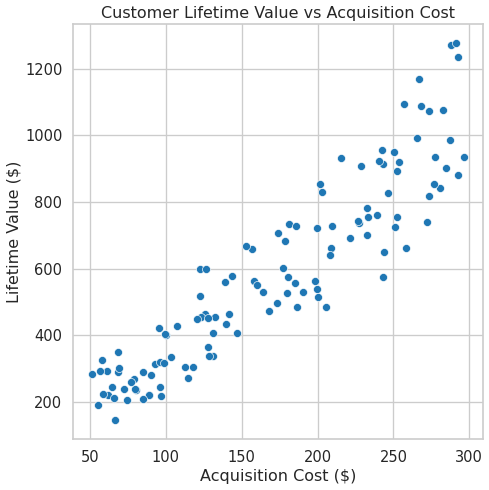
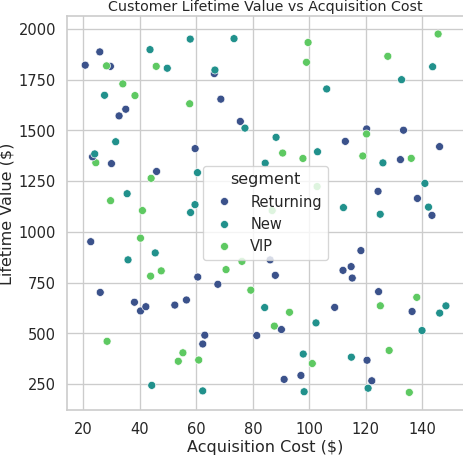
Add CLV scatterplot analysis files

diff --git a/chart.py b/chart.py
@@ -1,40 +1,40 @@
-# Author: 23f1001452@ds.study.iitm.ac.in
 import seaborn as sns
 import matplotlib.pyplot as plt
 import pandas as pd
 import numpy as np
 
-# --- Generate synthetic business data ---
-np.random.seed(42)
-
-n = 120
-acquisition_cost = np.random.uniform(50, 300, n)
-lifetime_value = acquisition_cost * np.random.uniform(2.5, 4.5, n) + np.random.normal(0, 50, n)
-
-df = pd.DataFrame({
-    "AcquisitionCost": acquisition_cost,
-    "LifetimeValue": lifetime_value
-})
-
-# --- Seaborn styling ---
+# Set professional style
 sns.set_style("whitegrid")
 sns.set_context("talk")
 
-# --- Create the 512x512 figure ---
-plt.figure(figsize=(8, 8))  # 8 inches * 64 dpi = 512px
+# Generate synthetic data
+np.random.seed(42)
+n = 120
+df = pd.DataFrame({
+    "acquisition_cost": np.random.uniform(20, 150, n),
+    "lifetime_value": np.random.uniform(200, 2000, n),
+    "segment": np.random.choice(["New", "Returning", "VIP"], n)
+})
 
-# --- Scatterplot ---
+# Figure size for EXACT 512x512 output:
+# DPI = 64, FIGSIZE = (8, 8)  →  8 inches * 64 dpi = 512 pixels
+plt.figure(figsize=(8, 8), dpi=64)
+
+# Scatterplot
 sns.scatterplot(
     data=df,
-    x="AcquisitionCost",
-    y="LifetimeValue",
-    palette="viridis"
+    x="acquisition_cost",
+    y="lifetime_value",
+    hue="segment",
+    palette="viridis",
+    s=80
 )
 
-plt.title("Customer Lifetime Value vs Acquisition Cost")
+plt.title("Customer Lifetime Value vs Acquisition Cost", fontsize=16)
 plt.xlabel("Acquisition Cost ($)")
 plt.ylabel("Lifetime Value ($)")
-plt.tight_layout()
 
-# --- Save exact 512x512 PNG ---
-plt.savefig("chart.png", dpi=64, bbox_inches="tight")
+# Save with exact dimensions
+plt.savefig("chart.png", dpi=64, bbox_inches="tight", pad_inches=0)
+
+plt.close()
